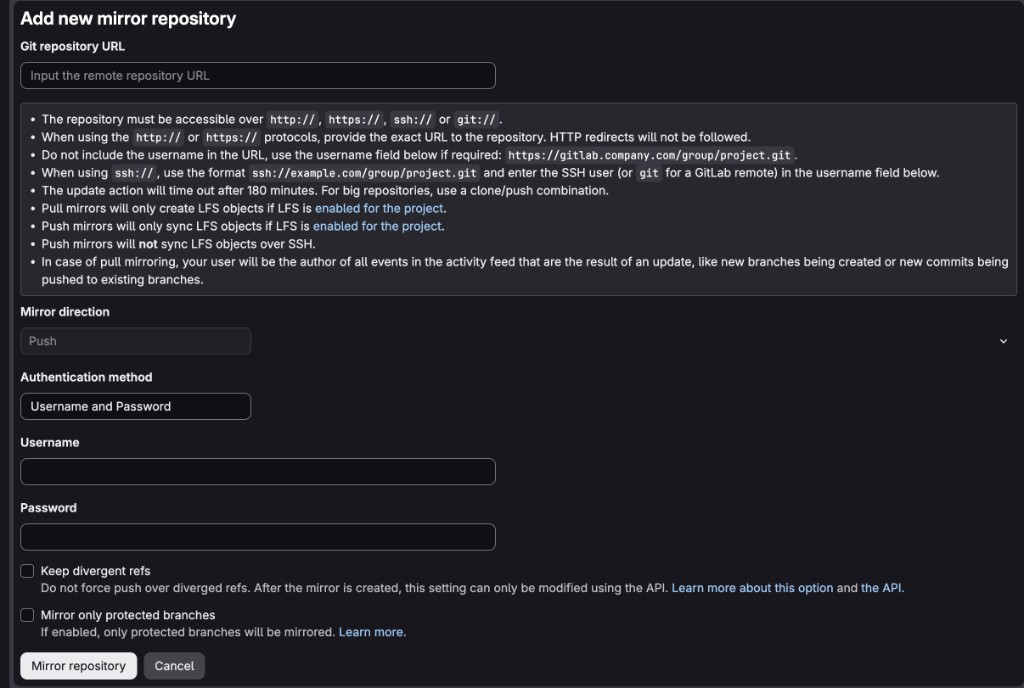
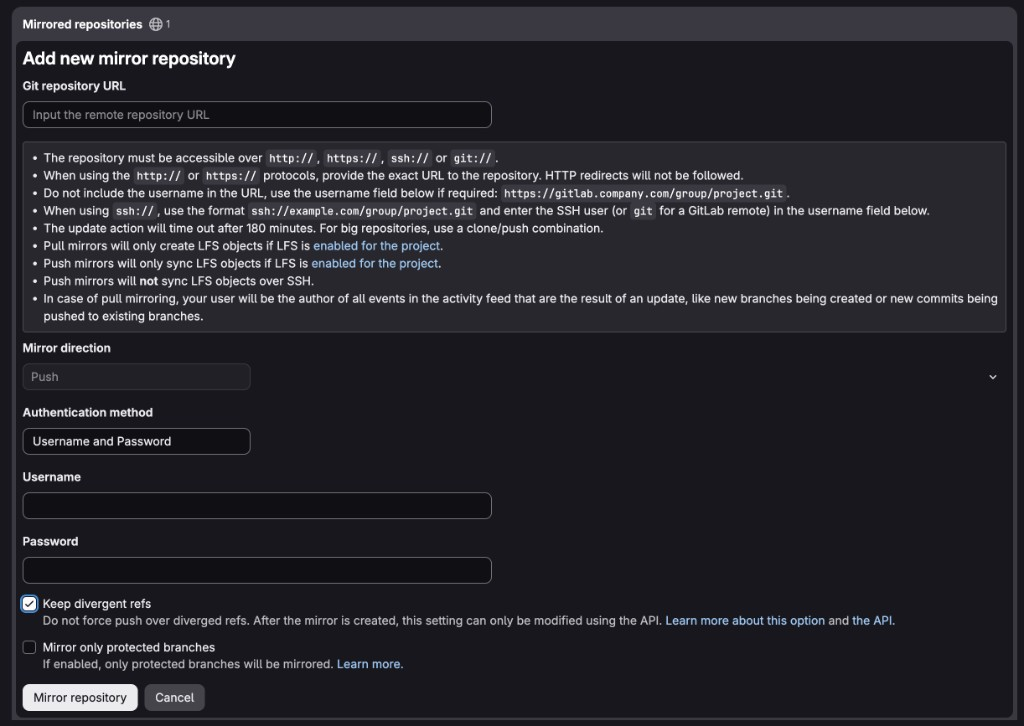
docs: Revise README for clarity on GitHub and GitLab divergent refs settings; update images for better visual guidance. Remove outdated GitLab project access token image and add a new one.

Changed region(s): [[0.0, 0.0, 1.0, 1.0]]

diff --git a/README.md b/README.md
@@ -80,7 +80,7 @@ The GitHub Actions **repository variables** and GitLab **Add new mirror reposito
 
 GitLab’s default is **not** to keep divergent refs: it **force-pushes** over diverged refs on GitHub. After the mirror exists, that checkbox can only be changed via the API. This Action’s default is the opposite (`keep_divergent_refs: true`). If you leave GitLab at default, GitHub history can disappear even when the Action would have failed closed.
 
-The screenshots below show the **dangerous** pairing (both overwrite): GitHub `KEEP_DIVERGENT_REFS=false` and GitLab **Keep divergent refs** unchecked. For bidirectional use, set **both** to keep divergent refs (`true` / checked).
+The GitHub screenshot below is the **dangerous** overwrite setting (`KEEP_DIVERGENT_REFS=false`). The GitLab screenshot shows **Keep divergent refs** checked — required for bidirectional use. Set **both** sides to keep divergent refs (`true` / checked). GitLab’s default is unchecked; after the mirror exists, that checkbox can only be changed via the API.
 
 ![GitHub Actions repository variables: GITLAB_URL, KEEP_DIVERGENT_REFS, ONLY_PROTECTED_BRANCHES](docs/github-actions-variables.png)
 
